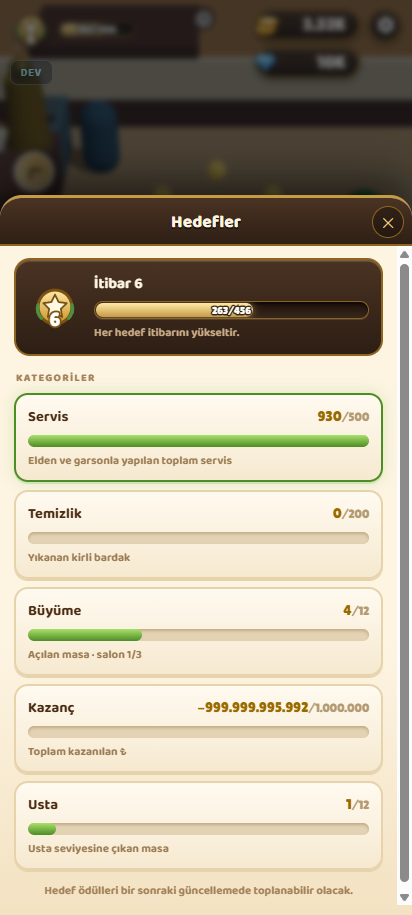
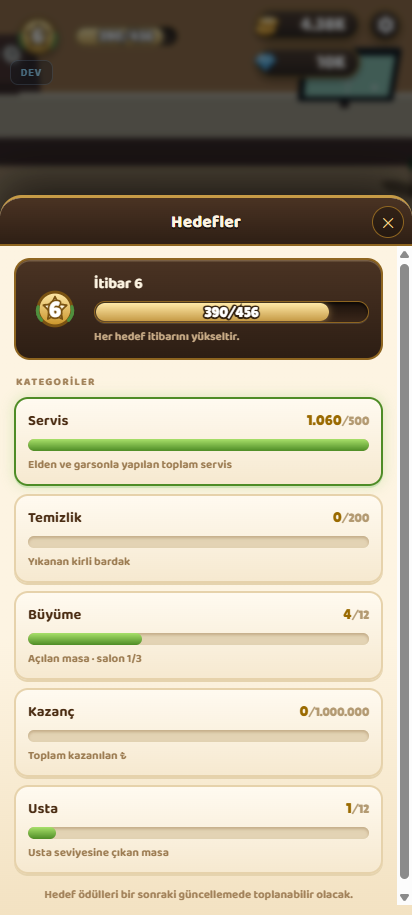
Arayuz v2: itibar madalyonu ve seviye cubugu buyutuldu (okunakli)
Kullanici geri bildirimi: seviye bari cok ufak, okunmuyor; seviye barini ve
sayi yuvarlagini buyut. Gerisi su an oldugu gibi kaliyor.

- Madalyon 42 -> 56 px, icindeki rakam 15 -> 21 px ve OPTIK MERKEZE alindi
  (top:53% yerine top:50% + translateY(-47%); rakam eskiden madalyonun alt
  kenarindan tasip yariya kadar disarida duruyordu)
- Seviye cubugu 76x15 -> 104x21 px, ustundeki sayac 10 -> 13,5 px
- Hedefler sayfasindaki buyuk itibar madalyonunun rakami da ayni sekilde
- Hedefler / Kazanc satiri 0'da kelepcelendi (dev hilesiyle lifetime negatife
  dusurulunce ekranda eksi sayi cikiyordu)
- Ekran goruntuleri guncellendi (docs/ui/ss/)

Test: vitest 186/186, npm run build temiz.

Claude-Session: https://claude.ai/code/session_01XcKq8GTjdPZkrEsiCbXGAL

Changed region(s): [[0.0291, 0.306, 0.932, 1.0], [0.0, 0.0, 1.0, 0.2448], [0.1165, 0.1836, 0.1748, 0.2142]]

diff --git a/src/components/ui/hud.css b/src/components/ui/hud.css
@@ -51,7 +51,7 @@
 .rep {
   display: flex;
   align-items: center;
-  gap: 7px;
+  gap: 8px;
   padding: 0;
   border: 0;
   background: none;
@@ -65,23 +65,25 @@
 }
 .rep-medal svg {
   display: block;
-  width: 42px;
-  height: 42px;
+  width: 56px;
+  height: 56px;
 }
 .rep-num {
   position: absolute;
-  top: 52%;
+  top: 50%;
+  transform: translateY(-47%);
   font-family: var(--font-num);
   font-style: normal;
-  font-size: 15px;
+  font-size: 21px;
+  line-height: 1;
   color: #fff;
   paint-order: stroke fill;
-  -webkit-text-stroke: 3.5px #7a5312;
+  -webkit-text-stroke: 5px #7a5312;
 }
 .rep-bar {
   position: relative;
-  width: 76px;
-  height: 15px;
+  width: 104px;
+  height: 21px;
   border-radius: 999px;
   background: linear-gradient(180deg, var(--w-edge), #3a271a);
   border: 1.5px solid var(--br-3);
@@ -90,7 +92,7 @@
 }
 .rep-bar.wide {
   width: 100%;
-  height: 18px;
+  height: 22px;
 }
 .rep-fill {
   position: absolute;
@@ -106,10 +108,10 @@
   display: grid;
   place-items: center;
   font-family: var(--font-num);
-  font-size: 10px;
+  font-size: 13.5px;
   color: #fff;
   paint-order: stroke fill;
-  -webkit-text-stroke: 3px rgba(40, 24, 10, 0.9);
+  -webkit-text-stroke: 4px rgba(40, 24, 10, 0.92);
 }
 
 /* Kese: para + elmas kapsülleri (ikon sol kenardan taşar — tycoon grameri) */
@@ -779,10 +781,11 @@
 }
 .rep-hero-medal i {
   position: absolute;
-  top: 52%;
+  top: 50%;
+  transform: translateY(-47%);
   font-family: var(--font-num);
   font-style: normal;
-  font-size: 19px;
+  font-size: 22px;
   color: #fff;
   paint-order: stroke fill;
   -webkit-text-stroke: 4px #7a5312;

diff --git a/src/components/ui/HUD.tsx b/src/components/ui/HUD.tsx
@@ -525,7 +525,7 @@ function GoalsSheet({ onClose }: { onClose: () => void }) {
     {
       key: 'earn',
       name: 'Kazanç',
-      cur: Math.floor(lifetime.toNumber()),
+      cur: Math.max(0, Math.floor(lifetime.toNumber())),
       total: 1_000_000,
       note: 'Toplam kazanılan ₺',
     },
